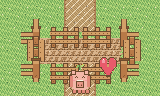
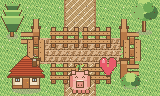
Add self-drawn hut and tree decor sprites for farm scene.
Warm pixel hut, oak/pine/bush, optional shadow, and updated composite preview plus docs Compose decor layer; reward domain untouched.

diff --git a/scripts/gen_farm_scene_assets.py b/scripts/gen_farm_scene_assets.py
@@ -46,6 +46,13 @@ PATH_D = (0xA8, 0x88, 0x58, 255)
 WOOD = (0xB8, 0x7A, 0x48, 255)
 WOOD_L = (0xD4, 0xA0, 0x68, 255)
 WOOD_D = (0x8A, 0x5A, 0x32, 255)
+ROOF = (0xC7, 0x5B, 0x39, 255)      # brick-red roof
+ROOF_D = (0x9A, 0x3E, 0x28, 255)    # deep roof shade
+ROOF_L = (0xE0, 0x7A, 0x48, 255)    # warm orange highlight
+WALL = (0xF2, 0xE2, 0xC4, 255)      # cream plaster
+WALL_D = (0xD9, 0xC4, 0x9A, 255)
+LEAF_D = (0x3A, 0x62, 0x38, 255)    # deep foliage
+SHADOW = (0x6B, 0x4A, 0x2E, 90)     # soft brown translucent
 SKY = (0xA8, 0xD4, 0xE0, 255)
 TRANSPARENT = (0, 0, 0, 0)
 
@@ -419,6 +426,201 @@ def fx_heart() -> Image.Image:
     return img
 
 
+# --- Decor: hut + trees (top-down / slight 3/4) -----------------------------
+
+def building_hut() -> Image.Image:
+    """Simple warm hut, 48×48, readable slight 3/4 (front + roof)."""
+    img = new_img(48, 48)
+    # ground shadow under footprint
+    for y in range(38, 46):
+        for x in range(8, 40):
+            if (x - 24) ** 2 / 220 + (y - 41) ** 2 / 20 <= 1:
+                px(img, x, y, (0x6B, 0x4A, 0x2E, 75))
+
+    # --- walls (front face) ---
+    fill_rect(img, 10, 24, 37, 40, WALL)
+    fill_rect(img, 10, 24, 12, 40, WALL_D)   # left shade
+    fill_rect(img, 35, 24, 37, 40, WALL_D)   # right shade
+    # wood sill / baseboard
+    fill_rect(img, 10, 38, 37, 40, WOOD)
+    hline(img, 10, 37, 37, WOOD_D)
+    # door (center)
+    fill_rect(img, 20, 28, 27, 40, WOOD_D)
+    fill_rect(img, 21, 29, 26, 39, WOOD)
+    fill_rect(img, 21, 29, 26, 30, WOOD_L)
+    px(img, 25, 34, GOLD)
+    rect_outline(img, 20, 28, 27, 40, OUTLINE)
+    # left window
+    fill_rect(img, 13, 28, 17, 33, SKY)
+    rect_outline(img, 13, 28, 17, 33, OUTLINE)
+    hline(img, 13, 17, 30, OUTLINE)
+    vline(img, 15, 28, 33, OUTLINE)
+    # right window
+    fill_rect(img, 30, 28, 34, 33, SKY)
+    rect_outline(img, 30, 28, 34, 33, OUTLINE)
+    hline(img, 30, 34, 30, OUTLINE)
+    vline(img, 32, 28, 33, OUTLINE)
+    # wall outline
+    rect_outline(img, 10, 24, 37, 40, OUTLINE)
+    # cream highlight patch
+    fill_rect(img, 14, 25, 17, 26, CREAM)
+
+    # --- pitched roof (slight 3/4: tall triangle over walls) ---
+    # back/top of roof peak down to eaves
+    for row in range(16):
+        # half-width grows as we go down
+        half = 1 + row
+        y = 8 + row
+        x0 = 24 - half
+        x1 = 24 + half
+        # stripe shingles
+        c = ROOF_L if row < 3 else (ROOF if row % 2 == 0 else ROOF_D)
+        fill_rect(img, x0, y, x1, y, c)
+        px(img, x0 - 1, y, OUTLINE)
+        px(img, x1 + 1, y, OUTLINE)
+    # wider eaves overhang over walls
+    for row in range(6):
+        half = 14 + row
+        y = 24 + row
+        x0 = 24 - half
+        x1 = 24 + half
+        c = ROOF if row % 2 == 0 else ROOF_D
+        if row >= 4:
+            c = ROOF_D
+        fill_rect(img, max(6, x0), y, min(41, x1), y, c)
+        px(img, max(5, x0 - 1), y, OUTLINE)
+        px(img, min(42, x1 + 1), y, OUTLINE)
+    # ridge tip
+    px(img, 24, 7, OUTLINE)
+    px(img, 23, 8, OUTLINE)
+    px(img, 25, 8, OUTLINE)
+    # horizontal eave beam
+    hline(img, 8, 39, 29, OUTLINE)
+    fill_rect(img, 9, 28, 38, 28, WOOD_D)
+
+    # chimney on right slope
+    fill_rect(img, 30, 10, 34, 18, STONE)
+    fill_rect(img, 30, 10, 34, 12, STONE_L)
+    fill_rect(img, 31, 13, 33, 17, WOOD_D)
+    rect_outline(img, 30, 10, 34, 18, OUTLINE)
+    # smoke puffs
+    px(img, 31, 8, STONE_L)
+    px(img, 33, 7, STONE_L)
+    px(img, 32, 6, STONE)
+    return img
+
+
+def tree_oak() -> Image.Image:
+    """Round oak canopy, 32×40 (written as 32×32 + canopy; use 32×40)."""
+    img = new_img(32, 40)
+    # soft shadow
+    for y in range(34, 39):
+        for x in range(8, 24):
+            if (x - 16) ** 2 / 64 + (y - 36) ** 2 / 9 <= 1:
+                px(img, x, y, (0x6B, 0x4A, 0x2E, 80))
+    # trunk
+    fill_rect(img, 14, 24, 17, 35, WOOD)
+    fill_rect(img, 14, 24, 15, 35, WOOD_D)
+    fill_rect(img, 16, 24, 17, 35, WOOD_L)
+    rect_outline(img, 14, 24, 17, 35, OUTLINE)
+    # canopy blobs (layered circles approximated by rects)
+    def blob(cx, cy, r, c):
+        for y in range(cy - r, cy + r + 1):
+            for x in range(cx - r, cx + r + 1):
+                if (x - cx) ** 2 + (y - cy) ** 2 <= r * r + r // 2:
+                    px(img, x, y, c)
+    blob(16, 14, 10, MGREEN)
+    blob(10, 16, 7, SAGE)
+    blob(22, 16, 7, DGREEN)
+    blob(16, 10, 7, LGREEN)
+    blob(12, 12, 5, SAGE)
+    blob(20, 11, 5, MGREEN)
+    # highlights
+    for x, y in [(12, 8), (13, 9), (18, 7), (14, 11)]:
+        px(img, x, y, LGREEN)
+    # outline sparse rim
+    for x, y in [(16, 3), (8, 10), (6, 16), (10, 22), (22, 22), (26, 16), (24, 10)]:
+        px(img, x, y, OUTLINE)
+    return img
+
+
+def tree_pine() -> Image.Image:
+    """Pointy pine / fir, 32×40."""
+    img = new_img(32, 40)
+    for y in range(34, 39):
+        for x in range(10, 22):
+            if (x - 16) ** 2 / 36 + (y - 36) ** 2 / 9 <= 1:
+                px(img, x, y, (0x6B, 0x4A, 0x2E, 80))
+    # trunk
+    fill_rect(img, 14, 28, 17, 36, WOOD_D)
+    fill_rect(img, 15, 28, 16, 36, WOOD)
+    rect_outline(img, 14, 28, 17, 36, OUTLINE)
+    # triangular tiers
+    tiers = [
+        (4, 6, 16, DGREEN),
+        (10, 8, 14, MGREEN),
+        (16, 10, 12, SAGE),
+        (22, 7, 10, DGREEN),
+    ]
+    for top, half0, rows, base_c in tiers:
+        for i in range(rows):
+            half = half0 - i // 2
+            y = top + i
+            c = base_c
+            if i < 2:
+                c = LGREEN if base_c != DGREEN else SAGE
+            if i == rows - 1:
+                c = LEAF_D
+            fill_rect(img, 16 - half, y, 16 + half, y, c)
+            px(img, 16 - half - 1, y, OUTLINE)
+            px(img, 16 + half + 1, y, OUTLINE)
+    # tip
+    px(img, 16, 2, OUTLINE)
+    px(img, 16, 3, LGREEN)
+    px(img, 15, 4, SAGE)
+    px(img, 17, 4, SAGE)
+    return img
+
+
+def bush() -> Image.Image:
+    """Small round bush, 24×20."""
+    img = new_img(24, 20)
+    for y in range(15, 19):
+        for x in range(4, 20):
+            if (x - 12) ** 2 / 49 + (y - 17) ** 2 / 9 <= 1:
+                px(img, x, y, (0x6B, 0x4A, 0x2E, 70))
+    def blob(cx, cy, r, c):
+        for y in range(cy - r, cy + r + 1):
+            for x in range(cx - r, cx + r + 1):
+                if (x - cx) ** 2 + (y - cy) ** 2 <= r * r:
+                    px(img, x, y, c)
+    blob(12, 10, 8, SAGE)
+    blob(7, 11, 5, MGREEN)
+    blob(17, 11, 5, DGREEN)
+    blob(12, 7, 5, LGREEN)
+    for x, y in [(9, 5), (10, 6), (14, 5)]:
+        px(img, x, y, LGREEN)
+    for x, y in [(4, 10), (12, 2), (20, 10), (6, 15), (18, 15)]:
+        px(img, x, y, OUTLINE)
+    return img
+
+
+def tree_shadow() -> Image.Image:
+    """Soft elliptical ground shadow for tree feet, 32×16."""
+    img = new_img(32, 16)
+    for y in range(16):
+        for x in range(32):
+            # ellipse centered
+            nx = (x - 15.5) / 14.0
+            ny = (y - 8.0) / 5.5
+            d = nx * nx + ny * ny
+            if d <= 1.0:
+                a = int(100 * (1.0 - d * 0.85))
+                if a > 0:
+                    px(img, x, y, (0x6B, 0x4A, 0x2E, min(a, 110)))
+    return img
+
+
 # --- Composite preview ------------------------------------------------------
 
 def farm_scene_preview() -> Image.Image:
@@ -439,6 +641,10 @@ def farm_scene_preview() -> Image.Image:
     fc_se = fence_corner("se")
     pet = pet_happy()
     heart = fx_heart()
+    hut = building_hut()
+    oak = tree_oak()
+    pine = tree_pine()
+    bush_img = bush()
 
     # Layer 0 — ground grid (5×3)
     for ty in range(3):
@@ -468,7 +674,13 @@ def farm_scene_preview() -> Image.Image:
     canvas.paste(fh, (80, 54), fh)
     canvas.paste(fc_se, (108, 50), fc_se)
 
-    # Layer 2 — pet sprite + heart FX
+    # Layer 2 — decor (hut + trees / bush)
+    canvas.paste(pine, (-4, 0), pine)
+    canvas.paste(oak, (128, -4), oak)
+    canvas.paste(bush_img, (118, 70), bush_img)
+    canvas.paste(hut, (2, 48), hut)
+
+    # Layer 3 — pet sprite + heart FX
     canvas.paste(pet, (64, 62), pet)
     canvas.paste(heart, (92, 50), heart)
     return canvas
@@ -494,6 +706,15 @@ GENERATORS_32 = {
     "fx_heart.png": fx_heart,
 }
 
+# Decor sprites (variable size; still PIL nearest-neighbor)
+GENERATORS_DECOR = {
+    "building_hut.png": building_hut,       # 48×48
+    "tree_oak.png": tree_oak,               # 32×40
+    "tree_pine.png": tree_pine,             # 32×40
+    "bush.png": bush,                       # 24×20
+    "tree_shadow.png": tree_shadow,         # 32×16
+}
+
 
 def main() -> None:
     OUT.mkdir(parents=True, exist_ok=True)
@@ -509,6 +730,18 @@ def main() -> None:
         img.resize((256, 256), Image.NEAREST).save(PREVIEW / name)
         written.append(name)
         print(f"wrote {name}")
+
+    for name, gen in GENERATORS_DECOR.items():
+        img = gen()
+        path = OUT / name
+        img.save(path, "PNG")
+        # preview: scale ~8× keeping aspect
+        scale = max(1, 256 // max(img.size))
+        img.resize((img.size[0] * scale, img.size[1] * scale), Image.NEAREST).save(
+            PREVIEW / name
+        )
+        written.append(name)
+        print(f"wrote {name} {img.size[0]}x{img.size[1]}")
 
     preview = farm_scene_preview()
     assert preview.size == (160, 96)

diff --git a/docs/farm_scene_assets.md b/docs/farm_scene_assets.md
@@ -1,4 +1,4 @@
-# 俯視農田場景素材（自繪 32px）
+# 俯視農田場景素材（自繪 32px＋decor）
 
 暖色像素農田下一階場景感用圖，全部以 `scripts/gen_farm_scene_assets.py`（PIL nearest-neighbor）自繪，**非**星露谷或其他第三方 tileset。
 
@@ -46,15 +46,25 @@ python3 scripts/gen_farm_scene_assets.py
 | `pet_happy.png` | 小芽開心（互動後） |
 | `fx_heart.png` | 互動心心 |
 
+### Decor：簡易屋＋樹叢（透明底，尺寸不一）
+
+| 檔名 | 尺寸 | 用途 |
+|------|------|------|
+| `building_hut.png` | 48×48 | 簡易屋（微俯視／正面可讀，磚紅屋頂） |
+| `tree_oak.png` | 32×40 | 圓冠橡樹 |
+| `tree_pine.png` | 32×40 | 層疊松樹 |
+| `bush.png` | 24×20 | 小樹叢（可選） |
+| `tree_shadow.png` | 32×16 | 樹腳柔邊陰影（可選，疊喺 decor 下） |
+
 ### 合成預覽
 
 | 檔名 | 尺寸 |
 |------|------|
-| `farm_scene_preview.png` | 160×96 |
+| `farm_scene_preview.png` | 160×96（草泥＋圍欄＋小芽＋屋＋樹） |
 
-色板：奶油底、泥啡、鼠尾草／綠、磚紅、金黃、描邊 `#6B4A2E`。
+色板：奶油底、泥啡、鼠尾草／綠、磚紅／深橙屋頂、木色、描邊 `#6B4A2E`。
 
-## 建議 Compose 接法（三層）
+## 建議 Compose 接法（四層）
 
 唔改獎勵 domain；只係 UI 場景層。
 
@@ -68,7 +78,11 @@ Box(Modifier.fillMaxWidth().aspectRatio(160f / 96f)) {
     // 2) 圍欄層（同座標，z 較高）
     //    fence_h / fence_v / fence_corner_*
 
-    // 3) 寵物 Sprite + 心心 FX
+    // 3) Decor 層（屋／樹／叢；可選 tree_shadow 先畫再畫主體）
+    //    Image(painterResource(R.drawable.building_hut))
+    //    Image(painterResource(R.drawable.tree_oak)) / tree_pine / bush
+
+    // 4) 寵物 Sprite + 心心 FX
     //    Image(painterResource(R.drawable.pet_idle)) 或 pet_happy
     //    互動時短暫顯示 fx_heart（offset 喺寵物右上）
 }
@@ -78,6 +92,7 @@ Box(Modifier.fillMaxWidth().aspectRatio(160f / 96f)) {
 
 1. **底圖一層**：`LazyVerticalGrid`／自訂 `Grid`／`Canvas` 依地圖資料貼 tile。
 2. **圍欄一層**：獨立 overlay，唔同底圖 bake 死，方便之後改佈局。
-3. **寵物一層**：`Image`／`Sprite`；狀態切 `pet_idle` ↔ `pet_happy`，心心用 `AnimatedVisibility` 或短動畫。
+3. **Decor 一層**：屋／樹獨立擺位；`tree_shadow` 可選墊底；唔改獎勵／domain。
+4. **寵物一層**：`Image`／`Sprite`；狀態切 `pet_idle` ↔ `pet_happy`，心心用 `AnimatedVisibility` 或短動畫。
 
 現有 `FarmScreen` 仍可用 `tile_soil_empty`＋作物圖；本批係下一階俯視場景預留素材。

diff --git a/THIRD_PARTY_LICENSES.md b/THIRD_PARTY_LICENSES.md
@@ -15,4 +15,4 @@
 
 請執行依賴授權彙總工具（例如 `./gradlew :app:dependencies` 後對照 Maven POM）並貼上完整 NOTICE／LICENSE 文字。
 
-暖色像素風美術（含農田 tiles、圍欄、作物、CTA 圖示、寵物「小芽」等 PNG）**全部自繪 © 專案**，以 `scripts/gen_pixel_assets.py`／`scripts/gen_farm_scene_assets.py`（PIL nearest-neighbor）產生，無外部 tileset／第三方素材。
+暖色像素風美術（含農田 tiles、圍欄、作物、CTA 圖示、寵物「小芽」、簡易屋、樹叢／陰影等 PNG）**全部自繪 © 專案**，以 `scripts/gen_pixel_assets.py`／`scripts/gen_farm_scene_assets.py`（PIL nearest-neighbor）產生，無外部 tileset／第三方素材。
